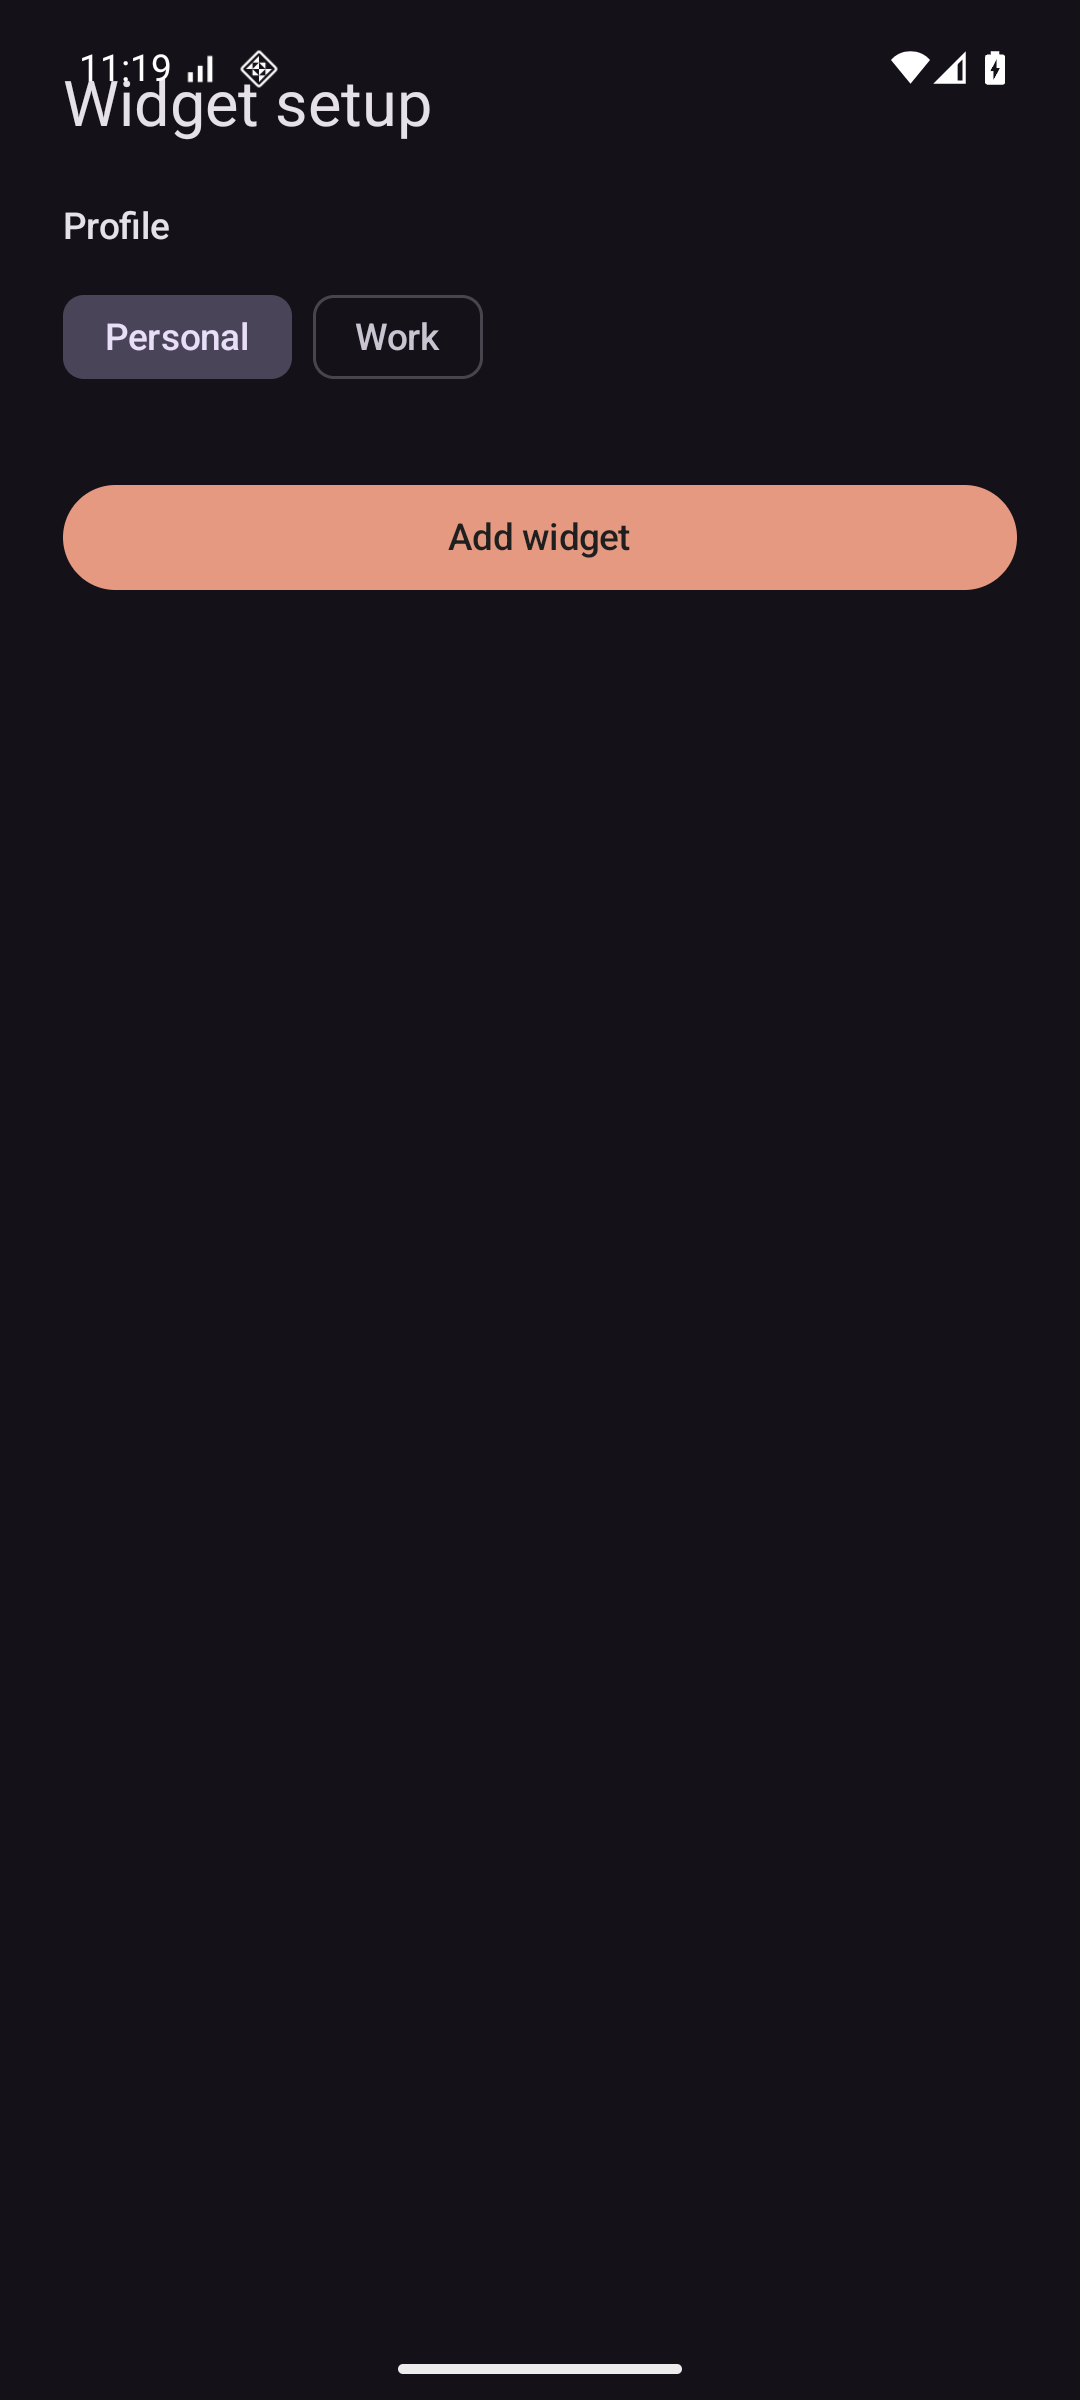
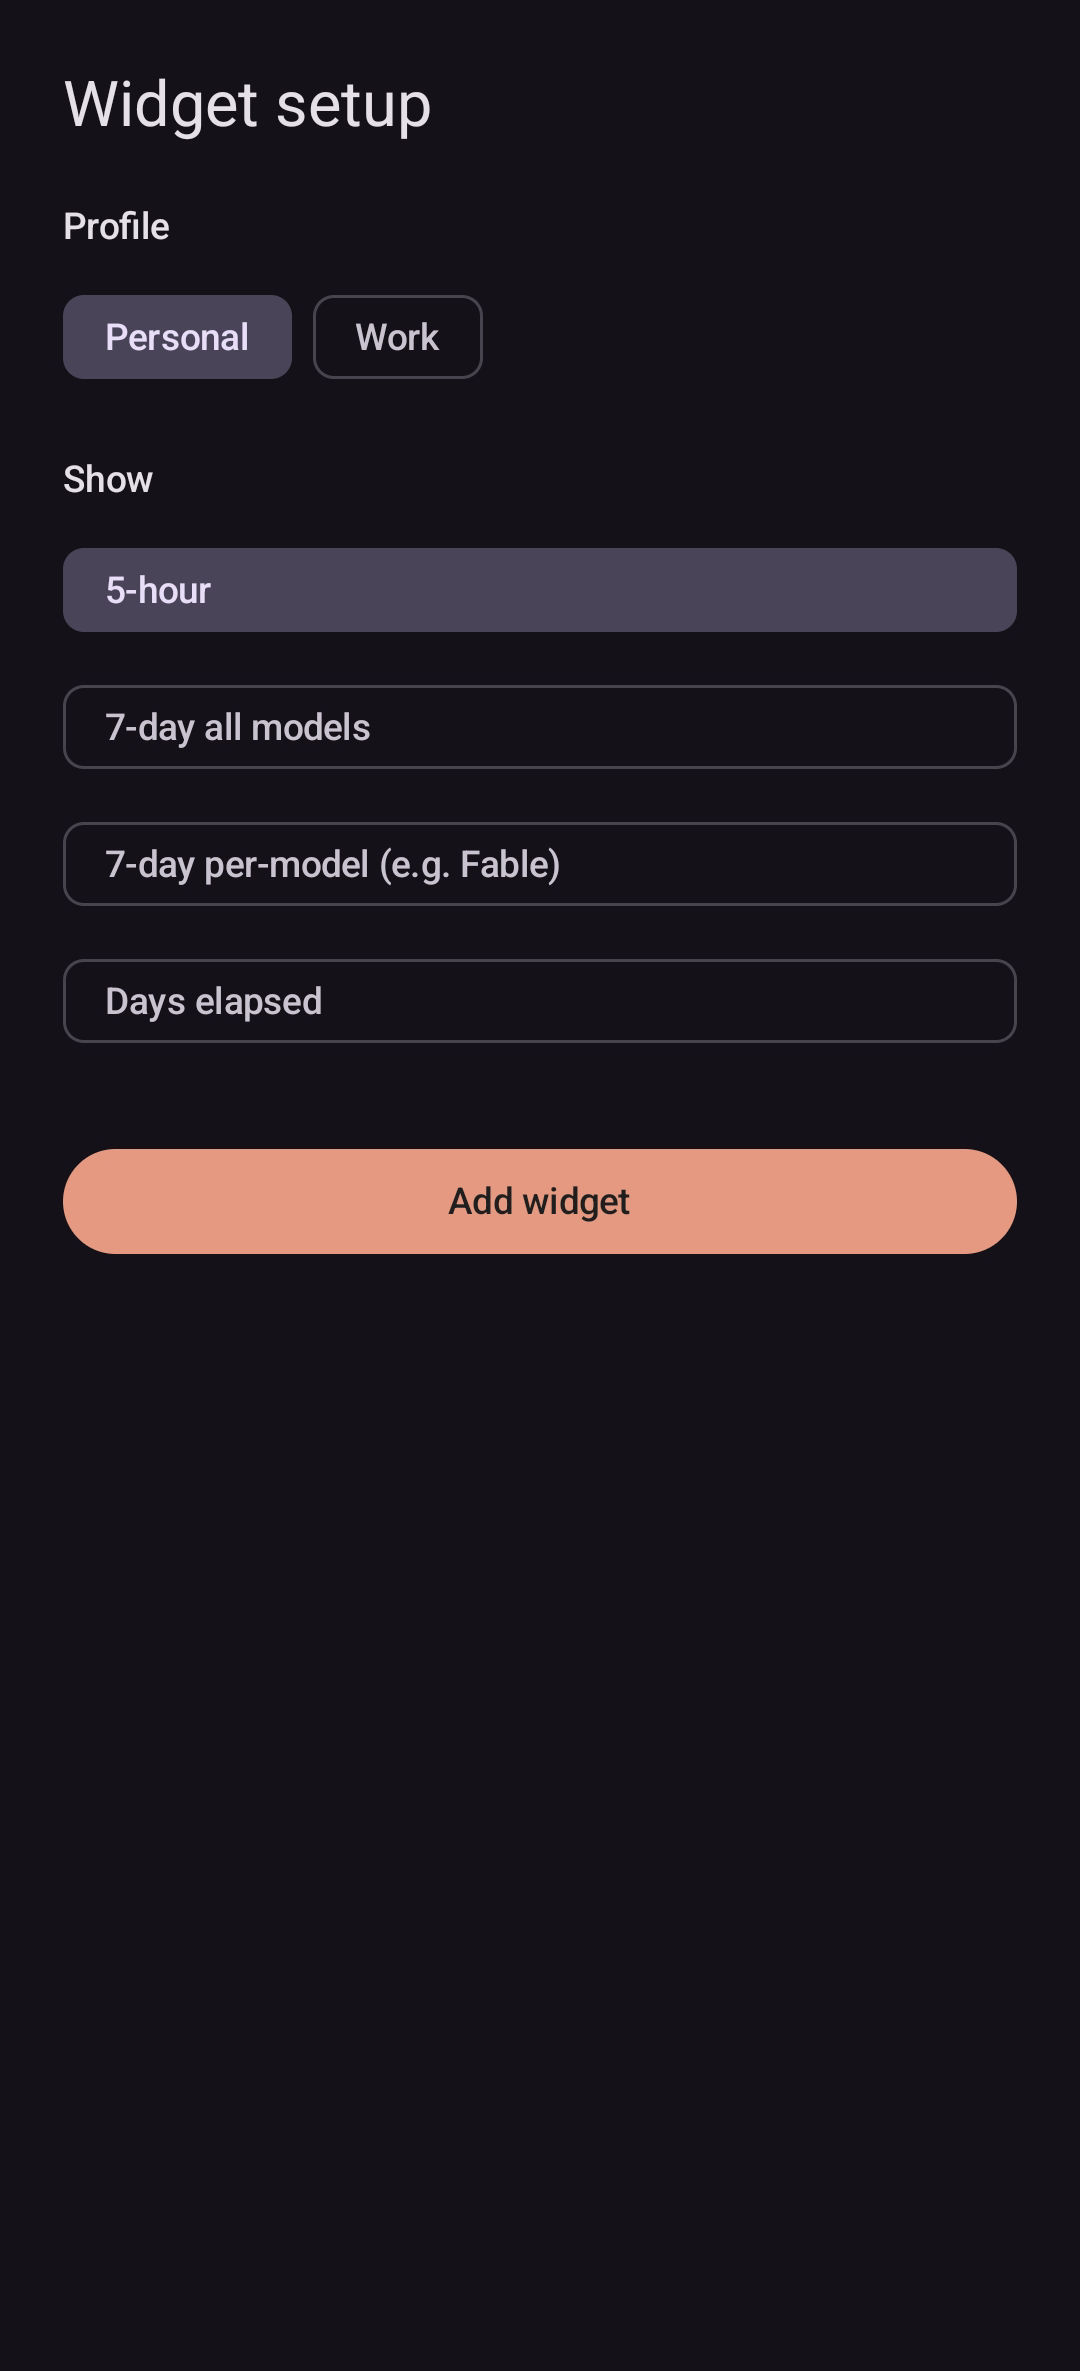
chore: remove orphaned light-theme screenshots; all-dark USER-GUIDE gallery
- Delete the 4 light-mode shots (work-tab-light, widget-large-light,
  settings-light-1, settings-bottom-light) + screenshots/widget-large-light,
  now unreferenced after the v1.0 all-dark refresh
- Rework the USER-GUIDE.md screenshot gallery to all-dark, real v1.0 shots
  (fixes the reference left dangling by the deletion)

diff --git a/Release/USER-GUIDE.md b/Release/USER-GUIDE.md
@@ -36,13 +36,13 @@ Shows the 5-hour and 7-day rolling windows for your **Personal** and **Work** pr
 |:---:|:---:|:---:|
 | ![Widget setup screen](screenshots/widget-setup.png) | ![Threshold and reset notifications](screenshots/notifications.png) | ![Personal and Work tiles](screenshots/quick-settings-tiles.png) |
 
-| Settings (dark) | Settings (light) | Widget (light) |
+| Settings — accounts | Settings — About (v1.0) | Themeable (13 colors) |
 |:---:|:---:|:---:|
-| ![Settings, dark](screenshots/settings-dark.png) | ![Settings, light](screenshots/settings-light.png) | ![Widget, light mode](screenshots/widget-large-light.png) |
+| ![Accounts and profile names](screenshots/settings-top-dark.png) | ![About, version 1.0](screenshots/settings-bottom-dark.png) | ![Blue-theme widgets](screenshots/widget-theme-blue.png) |
 
-| In-app token guide | About & credits |
+| Granular alerts | In-app token guide |
 |:---:|:---:|
-| ![Get your token screen](screenshots/token-guide.png) | ![About section](screenshots/settings-about.png) |
+| ![Alert controls](screenshots/settings-alerts.png) | ![Get your token screen](screenshots/token-guide.png) |
 
 ---
 
